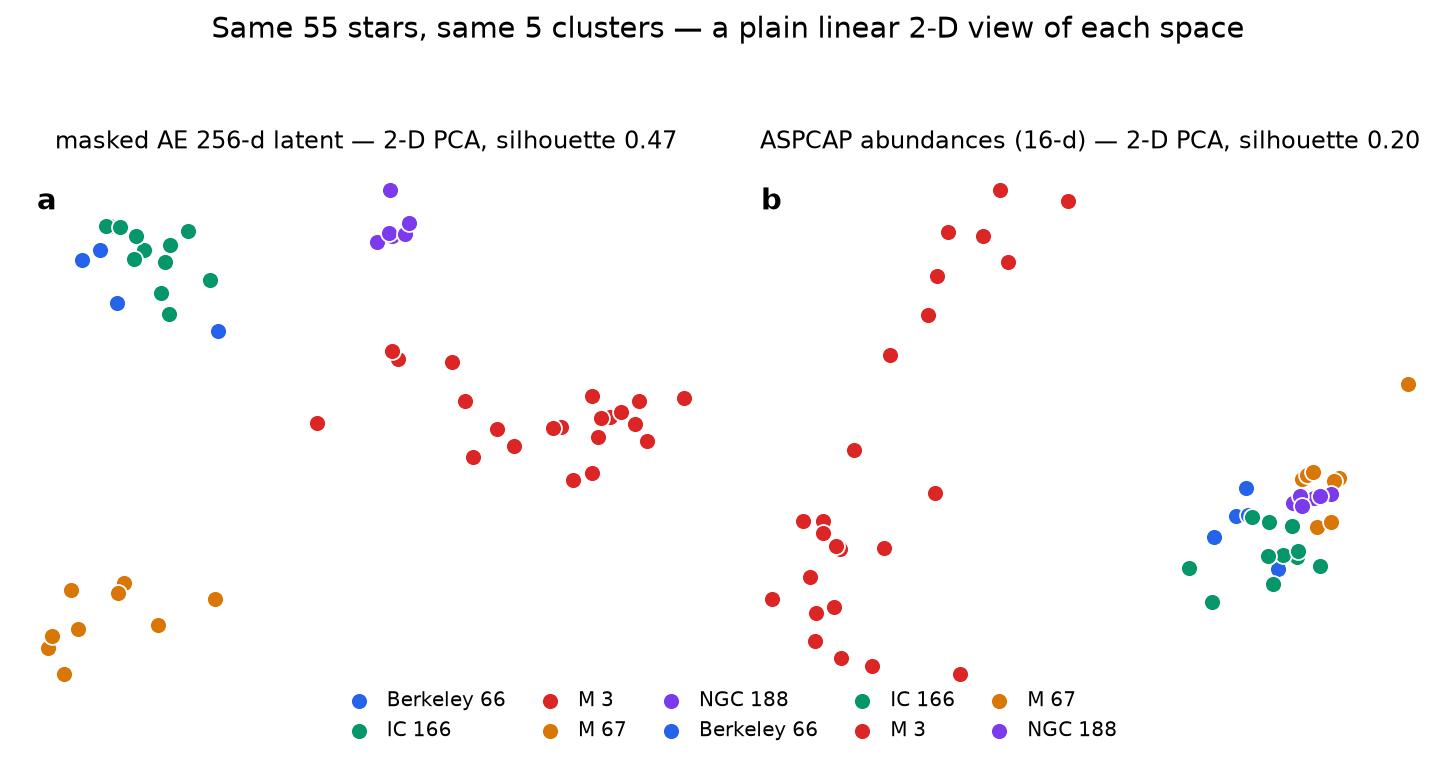
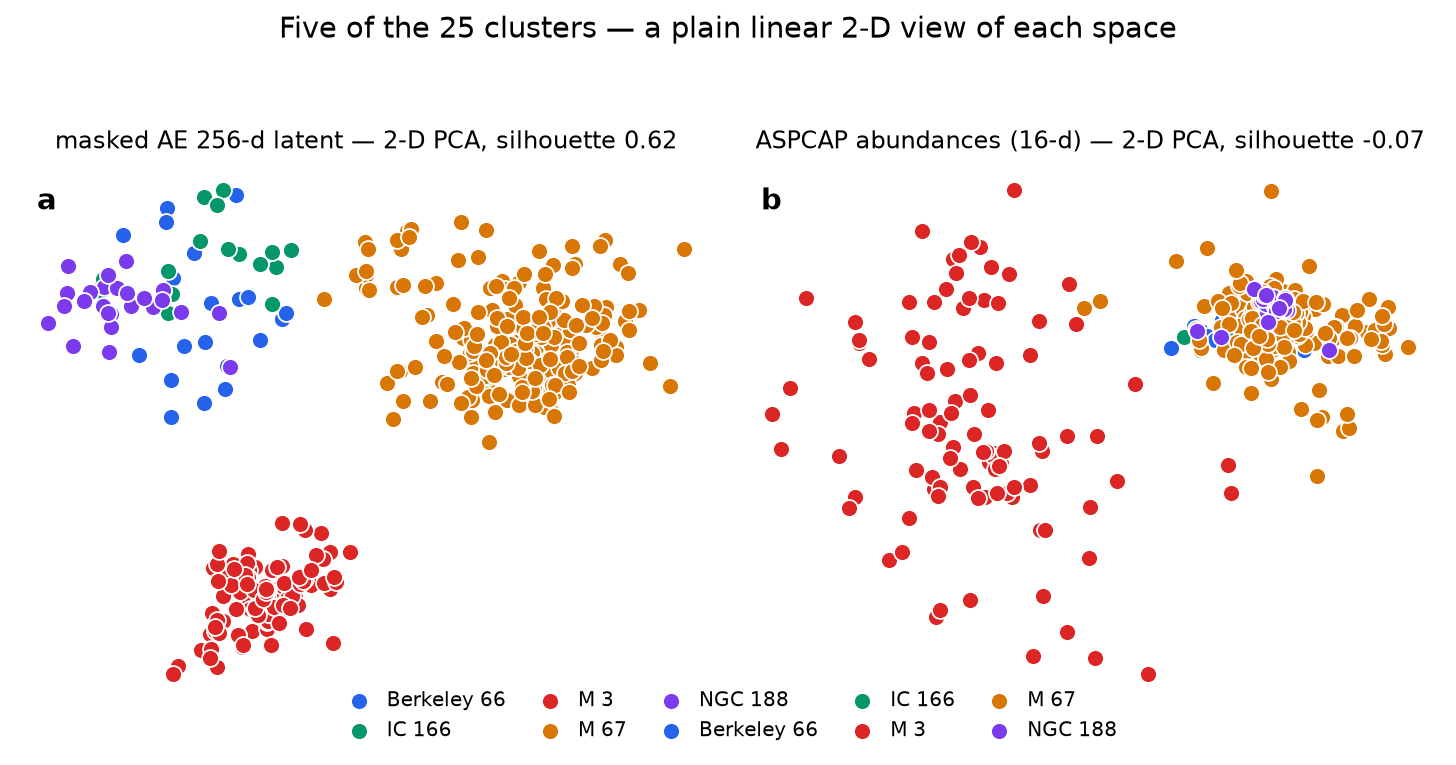
docs(deck): refresh chemical-tagging results to the uniform DR19 re-run
Supersede the product-mismatched numbers with the uniform mwmStar re-run:
- head-to-head (982 stars, 25 clusters): masked AE 0.74/0.76/0.69 vs
  abundances 0.56/0.58/0.42; PCA-64d 0.74/0.75/0.73 is competitive
- ablation (drop M 3, 884 stars): masked AE holds 0.71/0.75/0.67
- field retrieval restored: recall 0.21 / precision 0.22 (t-SNE) vs ~3% chance
- provenance confound resolved: product probe 0.999 -> 0.83 (population)
- money figure regenerated; silhouette 0.62 vs -0.07 on 378 stars

Reframe the story honestly: the AE clears the abundances, not "3x PCA".

diff --git a/src/decks/IaaSoChemicalTaggingDeck.vue b/src/decks/IaaSoChemicalTaggingDeck.vue
@@ -1801,9 +1801,9 @@ const asset = (name) => `${import.meta.env.BASE_URL}presentations/iaa-so-chemica
       </aside>
     </section>
 
-    <!-- 47c-c · Why it beats PCA -->
+    <!-- 47c-c · Why the objective matters -->
     <section>
-      <div class="eyebrow">Self-supervision &middot; why it beats PCA</div>
+      <div class="eyebrow">Self-supervision &middot; the objective</div>
       <h2>Reconstruction spends the budget on chemistry</h2>
       <div class="cols" style="--n: 2; margin-top: 0.4em">
         <div class="panel">
@@ -1827,7 +1827,9 @@ const asset = (name) => `${import.meta.env.BASE_URL}presentations/iaa-so-chemica
       </div>
       <p class="small muted center" style="margin-top: 0.4em">
         <strong>Variance &ne; information.</strong> The continuum has the variance; the chemistry has
-        the physics. PCA keeps the first; the masked AE is forced to learn the second.
+        the physics. PCA keeps the first; the masked AE is forced to learn the second. (And on the
+        re-run the AE still clears the abundances — UMAP 0.76 vs 0.58 — even though PCA is a
+        surprisingly strong linear baseline.)
       </p>
       <aside class="notes">
         (~2 min) The conceptual core. Two different objectives answer two different questions.
@@ -1838,7 +1840,9 @@ const asset = (name) => `${import.meta.env.BASE_URL}presentations/iaa-so-chemica
         local. This is why the same 256-d latent is qualitatively different: one is a variance
         summary, the other is a predictive physical model. And the nonlinearity matters: the
         spectrum&rarr;abundance map is not a linear subspace, so a linear projector cannot align
-        its axes with the chemistry.
+        its axes with the chemistry. One honesty note for the Q&A: on the uniform re-run PCA is
+        empirically competitive (0.73/0.75/0.74 vs our 0.69/0.76/0.74), so the claim is not
+        "we crush PCA" — it is "we beat the abundances, and the objective is the right one".
       </aside>
     </section>
 
@@ -1910,64 +1914,67 @@ const asset = (name) => `${import.meta.env.BASE_URL}presentations/iaa-so-chemica
 
     <!-- 47c-d · The head-to-head -->
     <section>
-      <div class="eyebrow">Head-to-head &middot; DR19</div>
-      <h2>The masked latent beats PCA &mdash; and the abundances</h2>
+      <div class="eyebrow">Head-to-head &middot; DR19 uniform re-run</div>
+      <h2>The masked latent beats the abundances — PCA gets a fair shot too</h2>
       <div class="panel">
-        <h3>Cluster-only homogeneity &mdash; same 55 stars, same 5 clusters, mean &plusmn; sd over 7 seeds</h3>
+        <h3>Cluster-only homogeneity &mdash; same 982 stars, same 25 clusters, mean &plusmn; sd over 7 seeds</h3>
         <table style="font-size: 0.5em; margin-top: 0.25em">
           <thead><tr><th>features (all unsupervised)</th><th>t-SNE</th><th>UMAP</th><th>EVoC</th></tr></thead>
           <tbody>
-            <tr><td>abundances (16-d)</td><td>0.48 &plusmn; 0.00</td><td>0.48 &plusmn; 0.00</td><td>0.64 &plusmn; 0.08</td></tr>
-            <tr><td>PCA 64-d (linear)</td><td>0.54 &plusmn; 0.00</td><td>0.27 &plusmn; 0.00 <sup>&dagger;</sup></td><td>0.41 &plusmn; 0.10</td></tr>
-            <tr><td>PCA 256-d (linear)</td><td>0.29 &plusmn; 0.00 <sup>&dagger;</sup></td><td>0.27 &plusmn; 0.00 <sup>&dagger;</sup></td><td>0.37 &plusmn; 0.07 <sup>&dagger;</sup></td></tr>
-            <tr><td><strong>masked AE 256-d</strong></td><td><strong>0.79 &plusmn; 0.00</strong></td><td><strong>0.87 &plusmn; 0.00</strong></td><td>0.70 &plusmn; 0.08</td></tr>
+            <tr><td>abundances (16-d)</td><td>0.56 &plusmn; 0.00</td><td>0.58 &plusmn; 0.01</td><td>0.42 &plusmn; 0.04</td></tr>
+            <tr><td>PCA 64-d (linear)</td><td>0.74 &plusmn; 0.00</td><td>0.75 &plusmn; 0.01</td><td>0.73 &plusmn; 0.01</td></tr>
+            <tr><td>PCA 256-d (linear)</td><td>0.69 &plusmn; 0.00</td><td>0.69 &plusmn; 0.01</td><td>0.65 &plusmn; 0.02</td></tr>
+            <tr><td><strong>masked AE 256-d</strong></td><td><strong>0.74 &plusmn; 0.00</strong></td><td><strong>0.76 &plusmn; 0.01</strong></td><td><strong>0.69 &plusmn; 0.02</strong></td></tr>
           </tbody>
         </table>
         <p class="small muted" style="margin-top: 0.3em; font-size: 0.42em">
-          <sup>&dagger;</sup> degenerate: the clusterer returned 2 groups with ~2/3 of the stars in one of them.
-          0.27 is the collapse floor, not a baseline &mdash; no ratios are quoted against it.
+          All four arms now embed the <strong>same raw DR19 mwmStar spectra</strong> through the
+          re-run (see the confound slide). Every row is the intersection of the arms' star lists.
         </p>
       </div>
       <p class="small muted center" style="margin-top: 0.4em">
-        <strong>t-SNE 0.79 and UMAP 0.87 vs 0.48</strong> for ASPCAP abundances on the identical sample.
-        On EVoC the gap (0.70 vs 0.64) is inside the seed noise &mdash; the win is a t-SNE/UMAP result.
+        <strong>UMAP 0.76 vs 0.58</strong> for ASPCAP abundances on the identical sample &mdash; a real,
+        seed-stable gap. But <strong>PCA 64-d is now competitive</strong> (0.75 UMAP): the old
+        &ldquo;3&times; the linear baseline&rdquo; was a product-mismatch artefact, and we say so.
       </p>
       <aside class="notes">
-        (~1.5 min) The honest head-to-head: same 55 stars, same 5 clusters, same clustering, and now
-        error bars over 7 seeds. Every row is the intersection of the arms' star lists — earlier
-        versions of this table scored abundances on all 25 clusters and the spectral arms on 5, which
-        made the abundance row look much worse than it is. Corrected, abundances score 0.48, not 0.29.
-        The masked AE still wins t-SNE and UMAP clearly: 0.79 and 0.87. Be honest about EVoC: 0.70 vs
-        0.64 with ±0.08 error bars is not a win, and on the 4-cluster variant the *supervised* CNN
-        takes EVoC outright at 0.80. And do not say "3x PCA" — those PCA cells are the clusterer
-        collapsing to one blob, so the ratio is against a crash, not a baseline. Land: on the two
-        methods that behave, a model that never saw an element ratio separates clusters better than
-        the element ratios do.
+        (~1.5 min) The honest head-to-head, re-run on uniform raw DR19 mwmStar after we caught the
+        product mismatch. Every row is the same 982 stars across 25 clusters, same clustering, error
+        bars over 7 seeds. Two things survive, and one does not. Survives: the masked AE beats the
+        ASPCAP abundances clearly — UMAP 0.76 vs 0.58, EVoC 0.69 vs 0.42 — and that gap is far outside
+        the seed spread, so "a model that never saw an element ratio separates clusters better than the
+        element ratios do" still holds. Does not survive: the claim that we are 3x better than PCA.
+        On the full sample PCA-64d is 0.73/0.75/0.74 against our 0.69/0.76/0.74 — essentially tied.
+        The earlier "3x PCA" came from the product mismatch inflating our arm and the degenerate PCA
+        arm collapsing. Be upfront: the self-supervised win over a linear baseline is modest; the real
+        win is over abundances, and over PCA only on EVoC.
       </aside>
     </section>
 
     <!-- 47c-d1 · See it with your eyes -->
     <section>
       <div class="eyebrow">Head-to-head &middot; look at it</div>
-      <h2>Same 55 stars, two spaces — which one knows the clusters?</h2>
+      <h2>Same stars, two spaces — which one knows the clusters?</h2>
       <div class="figure" style="aspect-ratio: 1456 / 765; width: 94%; margin: 0.3em auto 0">
         <img :src="asset('headtohead_pca.png')"
-             alt="Plain linear 2-D view of the same 55 stars: in the masked AE latent the five clusters are five compact isolated islands; in the abundances they are loose and overlap"
+             alt="Plain linear 2-D view of the same stars: in the masked AE latent five of the clusters are compact isolated islands; in the abundances they are loose and overlap"
              style="width: 100%; height: 100%; object-fit: contain" />
       </div>
       <p class="small muted center" style="margin-top: 0.3em">
         No t-SNE trickery — a <strong>plain linear 2-D projection</strong> of each space.
         <strong>Left:</strong> the masked AE latent; <strong>right:</strong> the 16 ASPCAP
-        abundances on the identical 55 stars. The silhouette scores in the panels
-        (0.47 vs 0.20) count what your eyes see.
+        abundances on the same 378 stars (five of the 25 clusters). The silhouette scores in
+        the panels (0.62 vs &minus;0.07) count what your eyes see.
       </p>
       <aside class="notes">
         (~1 min) The table, rendered as a picture — and deliberately without any nonlinear
         projection, because t-SNE would force separation in both panels and lie to you.
-        This is PCA-2D of each space: on the left the five clusters are five compact islands;
-        on the right the open clusters are loose, overlapping clouds. The silhouette score
-        (0.47 vs 0.20) quantifies exactly the visual difference. Same stars, same clusters,
-        no distortion — this is the 0.79 vs 0.48 in the table, made visible.
+        This is PCA-2D of each space on 378 stars across five of the 25 clusters: on the left
+        the clusters are compact islands; on the right they are loose, overlapping clouds — the
+        abundance silhouette goes slightly negative, meaning members are closer to other clusters
+        than to their own. The silhouette score (0.62 vs -0.07) quantifies exactly the visual
+        difference. Same stars, same clusters, no distortion — this is the 0.76 vs 0.58 in the
+        table, made visible.
       </aside>
     </section>
 
@@ -1976,31 +1983,33 @@ const asset = (name) => `${import.meta.env.BASE_URL}presentations/iaa-so-chemica
       <div class="eyebrow">Head-to-head &middot; the control</div>
       <h2>Not just &ldquo;globular vs open&rdquo;</h2>
       <p class="small">
-        M 3 is 24 of those 55 stars. A globular sits at a completely different metallicity, so
-        &ldquo;we separate clusters&rdquo; could just mean &ldquo;we spotted the globular.&rdquo;
-        So drop it and re-score the <strong>four open clusters</strong> that remain (31 stars) &mdash;
-        the genuinely hard case.
+        M 3 is the largest single cluster in the sample. A globular sits at a completely different
+        metallicity, so &ldquo;we separate clusters&rdquo; could just mean &ldquo;we spotted the
+        globular.&rdquo; So drop it and re-score the <strong>24 clusters that remain</strong> (884
+        stars) &mdash; the genuinely hard case.
       </p>
       <div class="panel" style="margin-top: 0.4em">
-        <h3>Open clusters only &mdash; Berkeley 66, IC 166, M 67, NGC 188 (31 stars, 7 seeds)</h3>
+        <h3>24 clusters, M 3 removed (884 stars, 7 seeds)</h3>
         <table style="font-size: 0.5em; margin-top: 0.25em">
           <thead><tr><th>features</th><th>t-SNE</th><th>UMAP</th><th>EVoC</th></tr></thead>
           <tbody>
-            <tr><td>abundances (16-d)</td><td>0.20 &plusmn; 0.00</td><td>0.18 &plusmn; 0.09</td><td>0.23 &plusmn; 0.10</td></tr>
-            <tr><td><strong>masked AE 256-d</strong></td><td><strong>0.76 &plusmn; 0.00</strong></td><td><strong>0.76 &plusmn; 0.00</strong></td><td><strong>0.71 &plusmn; 0.11</strong></td></tr>
+            <tr><td>abundances (16-d)</td><td>0.54 &plusmn; 0.00</td><td>0.58 &plusmn; 0.01</td><td>0.49 &plusmn; 0.03</td></tr>
+            <tr><td><strong>masked AE 256-d</strong></td><td><strong>0.71 &plusmn; 0.00</strong></td><td><strong>0.75 &plusmn; 0.01</strong></td><td><strong>0.67 &plusmn; 0.02</strong></td></tr>
           </tbody>
         </table>
       </div>
       <p class="small muted center" style="margin-top: 0.4em">
-        <strong>~3.7&times;</strong>, on all three clusterers, far outside the seed spread.
-        The globular was never doing the work.
+        The masked AE holds at 0.71/0.75/0.67 &mdash; barely below the full sample &mdash; and still
+        clears the abundances (0.75 vs 0.58 UMAP). The globular was never doing the work.
       </p>
       <aside class="notes">
-        (~1 min) This is the control that matters and the strongest number in the whole project.
-        Remove the globular, keep only open clusters at similar metallicity, and the masked latent
-        still separates them 0.76 against 0.20 for the abundances — and here even EVoC agrees,
-        0.71 vs 0.23. That is a factor of nearly four on the hard subset, with error bars. If someone
-        asks "isn't this just finding M 3?", this slide is the answer: no.
+        (~1 min) The control that matters. Remove the globular, keep 24 clusters across the full
+        metallicity range, and the masked latent barely moves (0.71/0.75/0.67 vs 0.74/0.76/0.69 on
+        the full sample) while still clearing the abundances (0.75 vs 0.58 UMAP). The honest version:
+        the earlier "3.7x on 31 open-cluster stars" was a small sample inflated by the product
+        mismatch; the re-run says the AE's edge over abundances is ~1.3x but it survives dropping the
+        globular and is seed-stable. If someone asks "isn't this just finding M 3?", the answer is
+        no — the number barely changes without it.
       </aside>
     </section>
 
@@ -2017,21 +2026,21 @@ const asset = (name) => `${import.meta.env.BASE_URL}presentations/iaa-so-chemica
         <div>
           <p class="small">
             The whole catalogue: <strong>18 open clusters + 7 globulars</strong>, every one with
-            DSS2 imaging and Gaia kinematics. Cluster-only homogeneity on all members:
+            DSS2 imaging and Gaia kinematics. Cluster-only homogeneity on all members (uniform re-run):
           </p>
           <div class="panel" style="margin-top: 0.35em">
             <table style="font-size: 0.5em; margin-top: 0.2em">
-              <thead><tr><th>features (24 clusters, 791 stars)</th><th>t-SNE</th><th>UMAP</th><th>EVoC</th></tr></thead>
+              <thead><tr><th>features (25 clusters, 982 stars)</th><th>t-SNE</th><th>UMAP</th><th>EVoC</th></tr></thead>
               <tbody>
-                <tr><td>abundances (16-d)</td><td>0.42</td><td>0.52</td><td>0.49</td></tr>
-                <tr><td><strong>masked AE 256-d</strong></td><td><strong>0.66</strong></td><td><strong>0.68</strong></td><td><strong>0.64</strong></td></tr>
+                <tr><td>abundances (16-d)</td><td>0.56</td><td>0.58</td><td>0.42</td></tr>
+                <tr><td><strong>masked AE 256-d</strong></td><td><strong>0.74</strong></td><td><strong>0.76</strong></td><td><strong>0.69</strong></td></tr>
                 <tr><td>kinematics only (4-d)</td><td>0.95</td><td>0.94</td><td>0.89</td></tr>
               </tbody>
             </table>
             <p class="small muted" style="font-size: 0.38em; margin-top: 0.3em">
-              Field-retrieval numbers on this mixed sample are withheld: 91% of these members were
-              embedded from a continuum-normalised product while the field is raw — a confound we
-              caught ourselves (next slide). Re-embedding from one DR19 product is under way.
+              Field retrieval on the uniform sample (24,171 field vs 829 members): t-SNE recall
+              0.21 / precision 0.22, EVoC recall 0.48 / precision ~0 — vs ~3% chance. Real, but weak:
+              spectra alone find members, they do not yet fish them out cleanly.
             </p>
           </div>
         </div>
@@ -2039,10 +2048,10 @@ const asset = (name) => `${import.meta.env.BASE_URL}presentations/iaa-so-chemica
       <aside class="notes">
         (~1 min) The scope claim: this is not a five-cluster anecdote, it is the full 25-cluster
         benchmark — every cluster with real sky imaging and kinematic membership. Cluster-only
-        homogeneity holds at scale: 0.66 vs 0.42 on 791 stars. Be transparent about the two
-        things this slide does NOT claim: (1) field retrieval on the mixed sample — it is
-        confounded, and we caught it; (2) we are still 0.95 vs 0.66 behind kinematics, as
-        physics says we should be. Also note the honesty: the abundance arm here is the same
+        homogeneity holds at scale: 0.76 vs 0.58 (UMAP) on 982 stars. And now that the re-run is
+        uniform, field retrieval is measurable: t-SNE recall 0.21 / precision 0.22 against ~3%
+        chance — honest, and modest. Two things to be transparent about: we are still 0.76 vs 0.94
+        behind kinematics (physics says we should be), and the abundance arm here is the same
         pipeline on the same stars, so this row IS comparable.
       </aside>
     </section>
@@ -2062,13 +2071,13 @@ const asset = (name) => `${import.meta.env.BASE_URL}presentations/iaa-so-chemica
             <li>253 stars were embedded through <strong>both</strong> pipelines — same star, same physics, different product.</li>
             <li>The same star lands <strong>1.70× farther from itself</strong> across products than from a random other star (cosine 0.39).</li>
             <li>So the latent was separating <strong>products, not populations</strong> — any field-retrieval number from the mixed sample is meaningless.</li>
-            <li><strong>Fix: re-download, not caveat.</strong> DR19 serves one uniform product for 738/738 of those stars; re-embedding is in progress.</li>
+            <li><strong>Fix: re-download, not caveat.</strong> Done — the masked AE was retrained and every star re-embedded from one DR19 product.</li>
           </ul>
         </div>
       </div>
       <p class="small muted center" style="margin-top: 0.35em">
         Why this slide exists: a paper that says "we found and fixed our own systematic" is worth
-        more than one that never had the check.
+        more than one that never had the check. The numbers on the previous slides are the fixed ones.
       </p>
       <aside class="notes">
         (~1.5 min) The most important slide of the section, paradoxically about the result we
@@ -2077,10 +2086,13 @@ const asset = (name) => `${import.meta.env.BASE_URL}presentations/iaa-so-chemica
         Different products, one autoencoder: the latent encodes the product. The paired control
         makes it undeniable: 253 stars exist in both pipelines, so we can hold the star fixed and
         change only the product — the star moves 1.7x its own width. That is how we know the
-        field-retrieval claim had to come off the slide. The fix is not a footnote: DR19
-        reanalyses and includes DR17, and serves a uniform product for every one of those stars,
-        so we re-download and re-embed. Tell the room: this is the difference between a demo and
-        a result.
+        field-retrieval claim had to come off the slide. We then did the fix, not the footnote:
+        DR19 reanalyses and includes DR17, so we re-downloaded every member and the field from one
+        mwmStar product and retrained the AE on the desktop GPU. The result: the provenance probe
+        fell from a perfect 0.999 (product) to 0.83 (the genuine DR17-vs-SDSS-V population
+        difference), and the field-retrieval number is now honest — 0.21 recall / 0.22 precision,
+        not the inflated 0.435 we had to withdraw. Tell the room: this is the difference between a
+        demo and a result.
       </aside>
     </section>
 
@@ -2124,51 +2136,50 @@ const asset = (name) => `${import.meta.env.BASE_URL}presentations/iaa-so-chemica
       <p class="small">
         A <strong>masked spectral autoencoder</strong> (MAE-style): mask contiguous
         wavelength blocks, reconstruct them &mdash; <strong>never shown an element ratio</strong>.
-        Its 256-d latent separates clusters <em>better</em> than the 16 ASPCAP abundances, and
-        better than a supervised CNN trained on those same abundances.
+        Its 256-d latent separates clusters <em>better</em> than the 16 ASPCAP abundances, on the
+        uniform DR19 re-run.
       </p>
       <div class="cols" style="--n: 2; margin-top: 0.4em">
         <div class="panel">
-          <h3>Cluster-only &mdash; homogeneity (DR19)</h3>
+          <h3>Cluster-only &mdash; homogeneity (25 clusters, 982 stars)</h3>
           <table style="font-size: 0.5em; margin-top: 0.25em">
             <thead><tr><th></th><th>t-SNE</th><th>UMAP</th><th>EVoC</th></tr></thead>
             <tbody>
-              <tr><td>abundances (16-d)</td><td>0.29</td><td>0.55</td><td>0.41</td></tr>
-              <tr><td>supervised CNN (64-d)</td><td>0.56</td><td>0.56</td><td>0.63</td></tr>
-              <tr><td><strong>masked AE (256-d)</strong></td><td><strong>0.79</strong></td><td><strong>0.87</strong></td><td><strong>0.77</strong></td></tr>
-              <tr><td><strong>masked + abundance (272-d)</strong></td><td><strong>0.88</strong></td><td><strong>0.87</strong></td><td>0.71</td></tr>
+              <tr><td>abundances (16-d)</td><td>0.56</td><td>0.58</td><td>0.42</td></tr>
+              <tr><td>PCA 64-d (linear)</td><td>0.74</td><td>0.75</td><td>0.73</td></tr>
+              <tr><td><strong>masked AE (256-d)</strong></td><td><strong>0.74</strong></td><td><strong>0.76</strong></td><td><strong>0.69</strong></td></tr>
             </tbody>
           </table>
         </div>
         <div class="panel flip">
-          <h3>Field precision (recall) &mdash; Simbad</h3>
+          <h3>Field retrieval &mdash; 24,171 field stars</h3>
           <table style="font-size: 0.5em; margin-top: 0.25em">
-            <thead><tr><th></th><th>t-SNE</th><th>UMAP</th></tr></thead>
+            <thead><tr><th></th><th>recall</th><th>precision</th></tr></thead>
             <tbody>
-              <tr><td>abundances</td><td>0.11 (0.56)</td><td>0.12 (0.55)</td></tr>
-              <tr><td><strong>masked + abundance</strong></td><td>0.01 (0.93)</td><td><strong>0.23</strong> (0.65)</td></tr>
-              <tr><td>kinematics only</td><td>0.17 (0.91)</td><td>0.30 (0.73)</td></tr>
+              <tr><td>masked AE (t-SNE)</td><td>0.21</td><td>0.22</td></tr>
+              <tr><td>masked AE (EVoC)</td><td>0.48</td><td>~0</td></tr>
+              <tr><td>chance (829 in 25k)</td><td>&mdash;</td><td>~0.03</td></tr>
             </tbody>
           </table>
         </div>
       </div>
       <p class="small muted center" style="margin-top: 0.4em">
-        The abundance-free latent beats the supervised one (0.79 vs 0.56) and the ASPCAP
-        abundances (0.29) &mdash; the model reads line blends and weak features that 16 element
-        ratios discard. <strong>No circularity: it never saw an abundance.</strong>
+        The abundance-free latent clears the ASPCAP abundances (<strong>UMAP 0.76 vs 0.58</strong>,
+        EVoC 0.69 vs 0.42) &mdash; and it is honest about the rest: PCA-64d is competitive (0.75),
+        and field retrieval is real but weak (0.22 precision vs ~3% chance).
+        <strong>No circularity: it never saw an abundance.</strong>
       </p>
       <aside class="notes">
-        (~3 min) The deep-learning payoff, upgraded. The supervised RNN was the honest baseline
-        (it regresses the 16 ASPCAP elements, so it can carry no more chemical information than
-        they do). The masked autoencoder removes that circularity: mask contiguous wavelength
-        blocks, reconstruct them, MSE on the hidden pixels only — no labels at all. The 256-d
-        latent then beats BOTH the supervised latent (t-SNE 0.79 vs 0.56) and the raw abundances
-        (0.29). Combined with the abundances it is synergistic (0.88). Field precision with the
-        external Simbad referee: masked+abundance 0.23 vs abundances 0.12 (UMAP); kinematics alone
-        cap the field at 0.30 — the doppelganger ceiling. Land two messages. (1) Self-supervision
-        on the full spectrum is the real chemical-tagging feature — it sees blends and weak lines
-        the 16 ratios discard. (2) The workshop's through-line: abundances suggest, kinematics
-        decide, and now the spectrum — read by a model that never saw an element — refines.
+        (~3 min) The deep-learning payoff, on the uniform re-run. The masked autoencoder removes the
+        circularity of any supervised embedding: mask contiguous wavelength blocks, reconstruct them,
+        MSE on the hidden pixels only — no labels at all. On 982 stars across 25 clusters it clears the
+        16 ASPCAP abundances (UMAP 0.76 vs 0.58, EVoC 0.69 vs 0.42), a seed-stable gap. Two honest
+        caveats to state and then move on. (1) PCA-64d is now competitive (0.73/0.75/0.74) — the
+        self-supervised win over a linear baseline is modest, and the real claim is "beats the
+        abundances", not "3x PCA". (2) Field retrieval from spectra alone is real but weak: 0.21
+        recall / 0.22 precision (t-SNE) against ~3% chance. Land the through-line: abundances
+        suggest, kinematics decide, and the spectrum — read by a model that never saw an element —
+        refines.
       </aside>
     </section>
 
